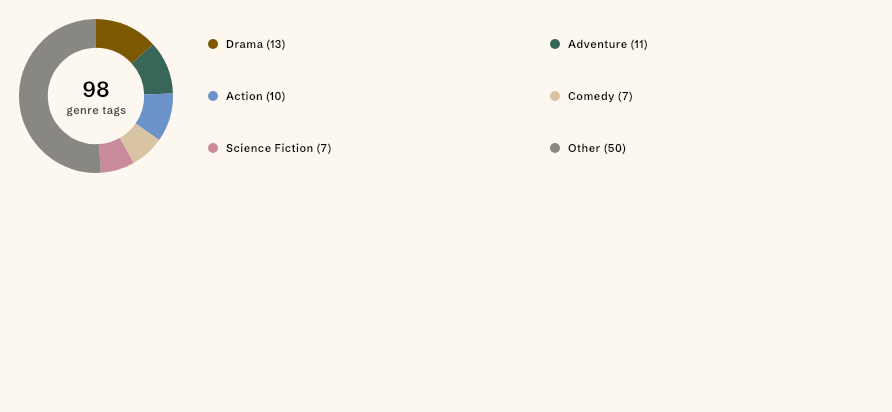
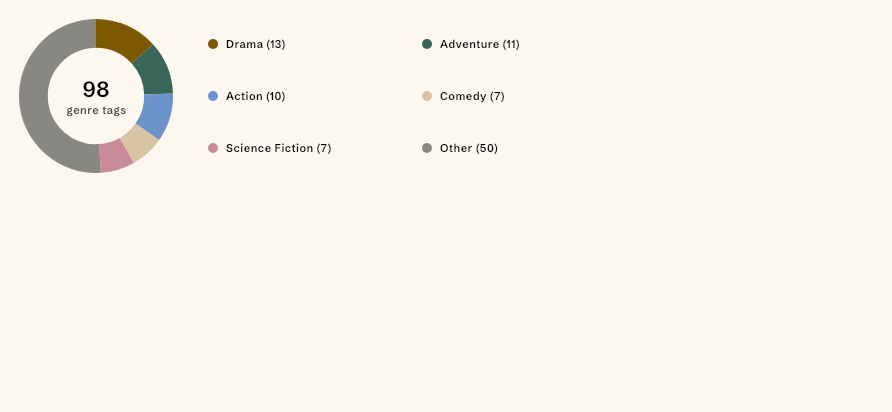
fix(profile): the donut legend stops stretching across a tablet (#64) (#236)
In the wide layout the legend took all the width beside the ring, and its two
columns split it, so on a tablet each row, and a selected row's highlight,
ran ~500dp past a label like "Comedy (7)". It is now capped at 420dp (two
~200dp columns) and no longer fills; rows keep their height, which is what
makes a thin slice selectable.

The two wide goldens are re-recorded to show it.

diff --git a/feature/profile/ui/src/commonMain/kotlin/com/codingpit/muviss/feature/profile/ui/ProfileCharts.kt b/feature/profile/ui/src/commonMain/kotlin/com/codingpit/muviss/feature/profile/ui/ProfileCharts.kt
@@ -17,6 +17,7 @@ import androidx.compose.foundation.layout.heightIn
 import androidx.compose.foundation.layout.padding
 import androidx.compose.foundation.layout.size
 import androidx.compose.foundation.layout.width
+import androidx.compose.foundation.layout.widthIn
 import androidx.compose.foundation.selection.selectable
 import androidx.compose.foundation.shape.CircleShape
 import androidx.compose.foundation.shape.RoundedCornerShape
@@ -163,6 +164,15 @@ fun genreLegendTag(genre: String): String = "genre_legend_$genre"
 private val DONUT_SIZE = 160.dp
 
 /**
+ * The wide layout's legend stops growing here (#64). Its two columns used to
+ * share whatever the row had left, so on a tablet each row, and a selected
+ * row's highlight, stretched ~500dp past a label like "Comedy (7)". Two
+ * ~200dp columns hold the longest genre names; the rows keep their height,
+ * which is what makes a thin slice selectable at all.
+ */
+private val WIDE_LEGEND_MAX_WIDTH = 420.dp
+
+/**
  * Ring thickness as a fraction of the donut's width. Thinner than the 0.24
  * this chart used at 96dp: at 160dp the old fraction left a 71dp hole, and
  * the center label has to live in there.
@@ -299,7 +309,7 @@ fun GenreDonutChart(
     if (wide) {
         Row(modifier, verticalAlignment = Alignment.CenterVertically, horizontalArrangement = Arrangement.spacedBy(MuvissSpacing.xl)) {
             GenreDonut(genres, sweeps, selectedIndex, onSelect, palette, growth, total)
-            GenreLegend(genres, selectedIndex, onSelect, palette, Modifier.weight(1f))
+            GenreLegend(genres, selectedIndex, onSelect, palette, Modifier.weight(1f, fill = false).widthIn(max = WIDE_LEGEND_MAX_WIDTH))
         }
     } else {
         Column(modifier.fillMaxWidth(), verticalArrangement = Arrangement.spacedBy(MuvissSpacing.l), horizontalAlignment = Alignment.CenterHorizontally) {
